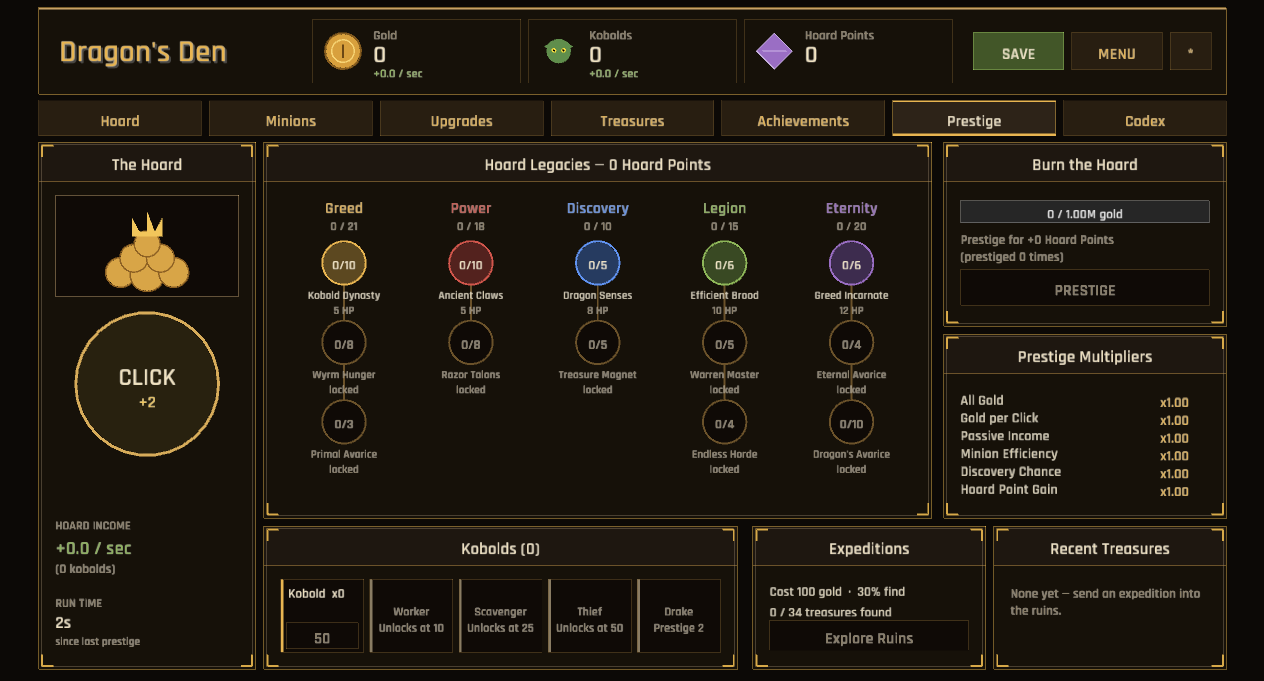
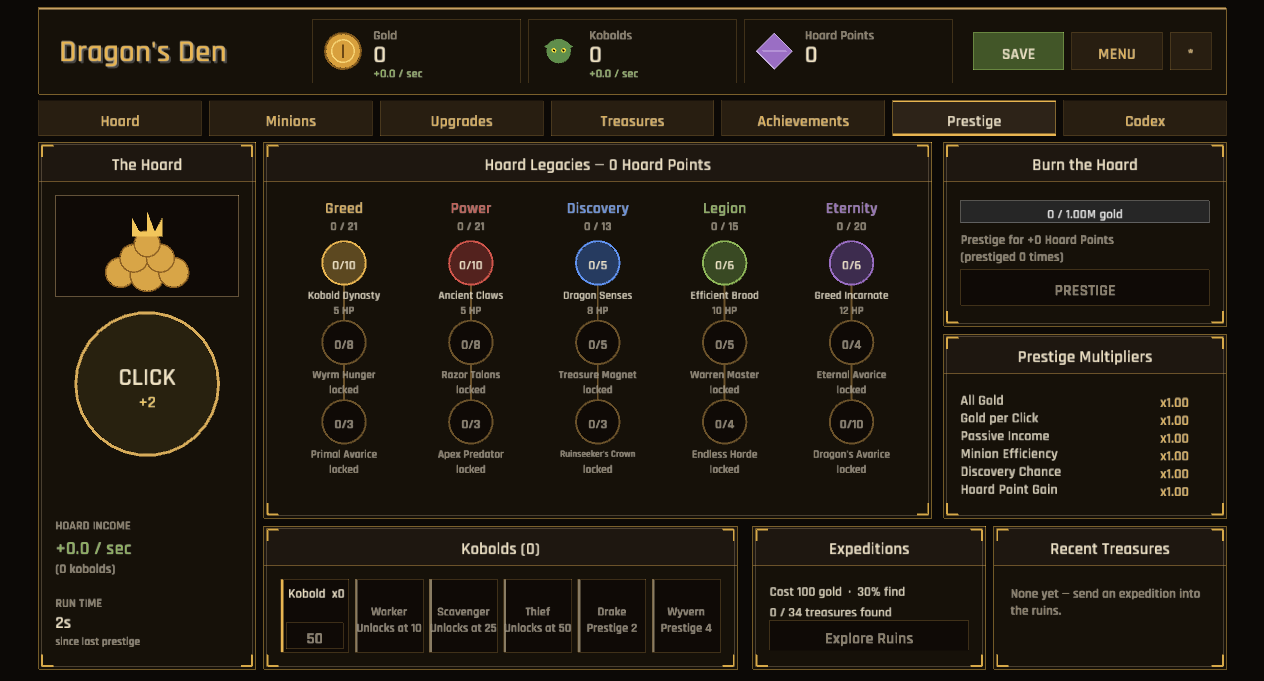
Content depth: complete the prestige tree at 3 tiers per branch
Power and Discovery were shallow — only tiers 0-1, while Greed, Legion and
Eternity each had three. Add their tier-2 capstones so the whole tree is
symmetric and every branch has a deep chase.

- Apex Predator (Power t2): +30% gold/click, max 3, prereq Razor Talons.
- Ruinseeker's Crown (Discovery t2): +18% discovery chance, max 3, prereq
  Treasure Magnet. (Discovery multiplies off a 0.30 base toward the 0.95
  clamp, with ample headroom, so it's a genuine boost, not a dead node.)

Held at three tiers on purpose — a fourth row would overflow the tree panel.
The balance sim evaluates the whole tree; more spend options can only keep
run 2 at least as fast, and the guards are unchanged (first prestige 19.7
min; cycle 2 30% of cycle 1). Validation: cargo test (48), clippy, fmt all
clean. Prestige tab captured — all five branches now show three tiers with
the two new capstones, no overflow.

Changed region(s): [[0.2468, 0.8634, 0.5554, 0.9559], [0.432, 0.5859, 0.4937, 0.7093], [0.3394, 0.6167, 0.4011, 0.7093]]

diff --git a/ENGAGEMENT_REVIEW.md b/ENGAGEMENT_REVIEW.md
@@ -93,8 +93,15 @@ ways to make it entertaining. All numbers are the ones actually shipping in
 > continues the ~6.7× geometric rate curve. One tier (not two) to keep the
 > 3-col Minions grid at two rows and the compact bottom-bar strip legible —
 > both verified. Extra minion tiers aren't in the balance sim, so guards are
-> untouched. Next content-depth targets: more prestige-tree tiers per branch,
-> more run-upgrade lines, deeper wall cliffs.
+> untouched.
+>
+> **Content depth — prestige tree now uniform at 3 tiers:** Power and Discovery
+> were shallow (only tiers 0–1); added their tier-2 capstones **Apex Predator**
+> (+30% gold/click) and **Ruinseeker's Crown** (+18% discovery) so all five
+> branches match Greed/Legion/Eternity at three tiers (13 → 15 nodes). Held at
+> three tiers deliberately — a fourth would overflow the tree panel. Guards
+> unchanged (19.7 min / 30%). Next content-depth targets: more run-upgrade
+> lines, deeper wall cliffs / a second prestige-threshold band.
 
 ---
 
